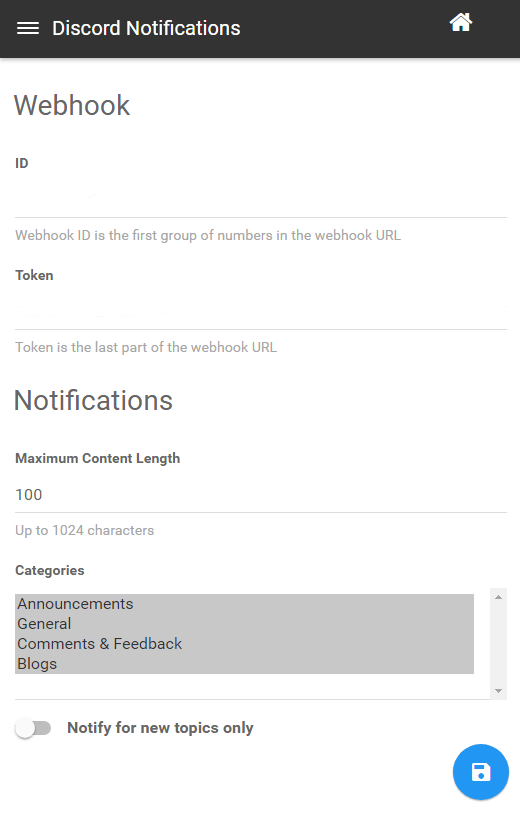
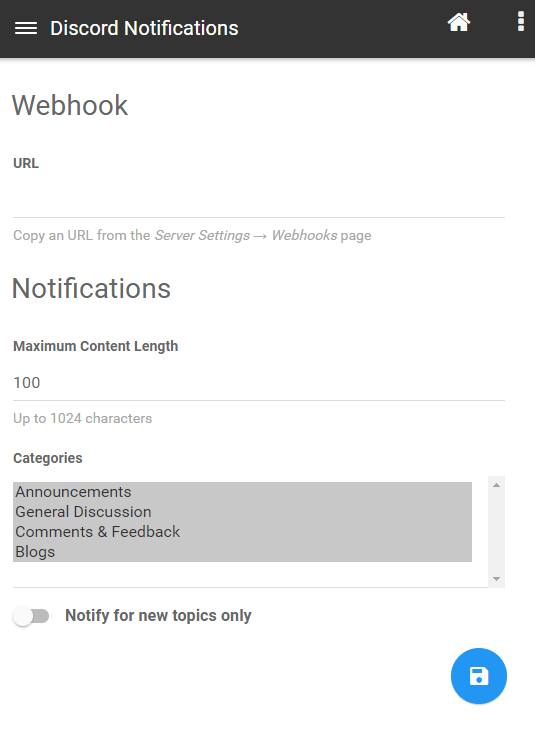
Switch to a single Webhook URL settings field (#1)

diff --git a/library.js b/library.js
@@ -14,12 +14,12 @@
 
 	var plugin = {
 			config: {
-				'WebhookID': '',
-				'WebhookToken': '',
-				'MaxLength': '',
-				'PostCategories': '',
-				'TopicsOnly': ''
-			}
+				webhookURL: '',
+				maxLength: '',
+				postCategories: '',
+				topicsOnly: ''
+			},
+			regex: /https:\/\/discordapp.com\/api\/webhooks\/([0-9].+?)\/(.+?)$/
 		};
 
 	plugin.init = function(params, callback) {
@@ -37,14 +37,16 @@
 				}
 			}
 
-			hook = new Discord.WebhookClient(plugin.config['WebhookID'], plugin.config['WebhookToken']);
+			// Parse Webhook URL (1: ID, 2: Token)
+			var match = plugin.config['webhookURL'].match(plugin.regex);
+			hook = new Discord.WebhookClient(match[1], match[2]);
 		});
 
 		callback();
 	},
 
 	plugin.postSave = function(post) {
-		var topicsOnly = plugin.config['TopicsOnly'] || 'off';
+		var topicsOnly = plugin.config['topicsOnly'] || 'off';
 
 		if (topicsOnly === 'off' || (topicsOnly === 'on' && post.isMain)) {
 			var content = post.content;
@@ -60,11 +62,11 @@
 					Categories.getCategoryFields(post.cid, ['name'], callback);
 				}
 			}, function(err, data) {
-				var categories = JSON.parse(plugin.config['PostCategories']);
+				var categories = JSON.parse(plugin.config['postCategories']);
 
 				if (!categories || categories.indexOf(String(post.cid)) >= 0) {
 					// Trim long posts:
-					var maxContentLength = plugin.config['MaxLength'] || 1024;
+					var maxContentLength = plugin.config['maxLength'] || 1024;
 					if (content.length > maxContentLength) { content = content.substring(0, maxContentLength) + '...'; }
 
 					// Ensure absolute thumbnail URL:

diff --git a/README.md b/README.md
@@ -11,7 +11,7 @@ It’s like [NodeBB Slack](https://github.com/pichalite/nodebb-plugin-slack-exte
 1. Install the plugin and activate it.
 2. Create a Discord webhook (Server Settings &rarr; Webhooks).  
     You’ll get an URL like `https://discordapp.com/api/webhooks/<Webhook ID>/<Webhook Token>`.
-3. Fill in **ID** and **Token** fields on the plugin settings page.
+3. Fill in **Webhook URL** field on the plugin settings page.
 4. Restart NodeBB.
 
 ## Screenshot
